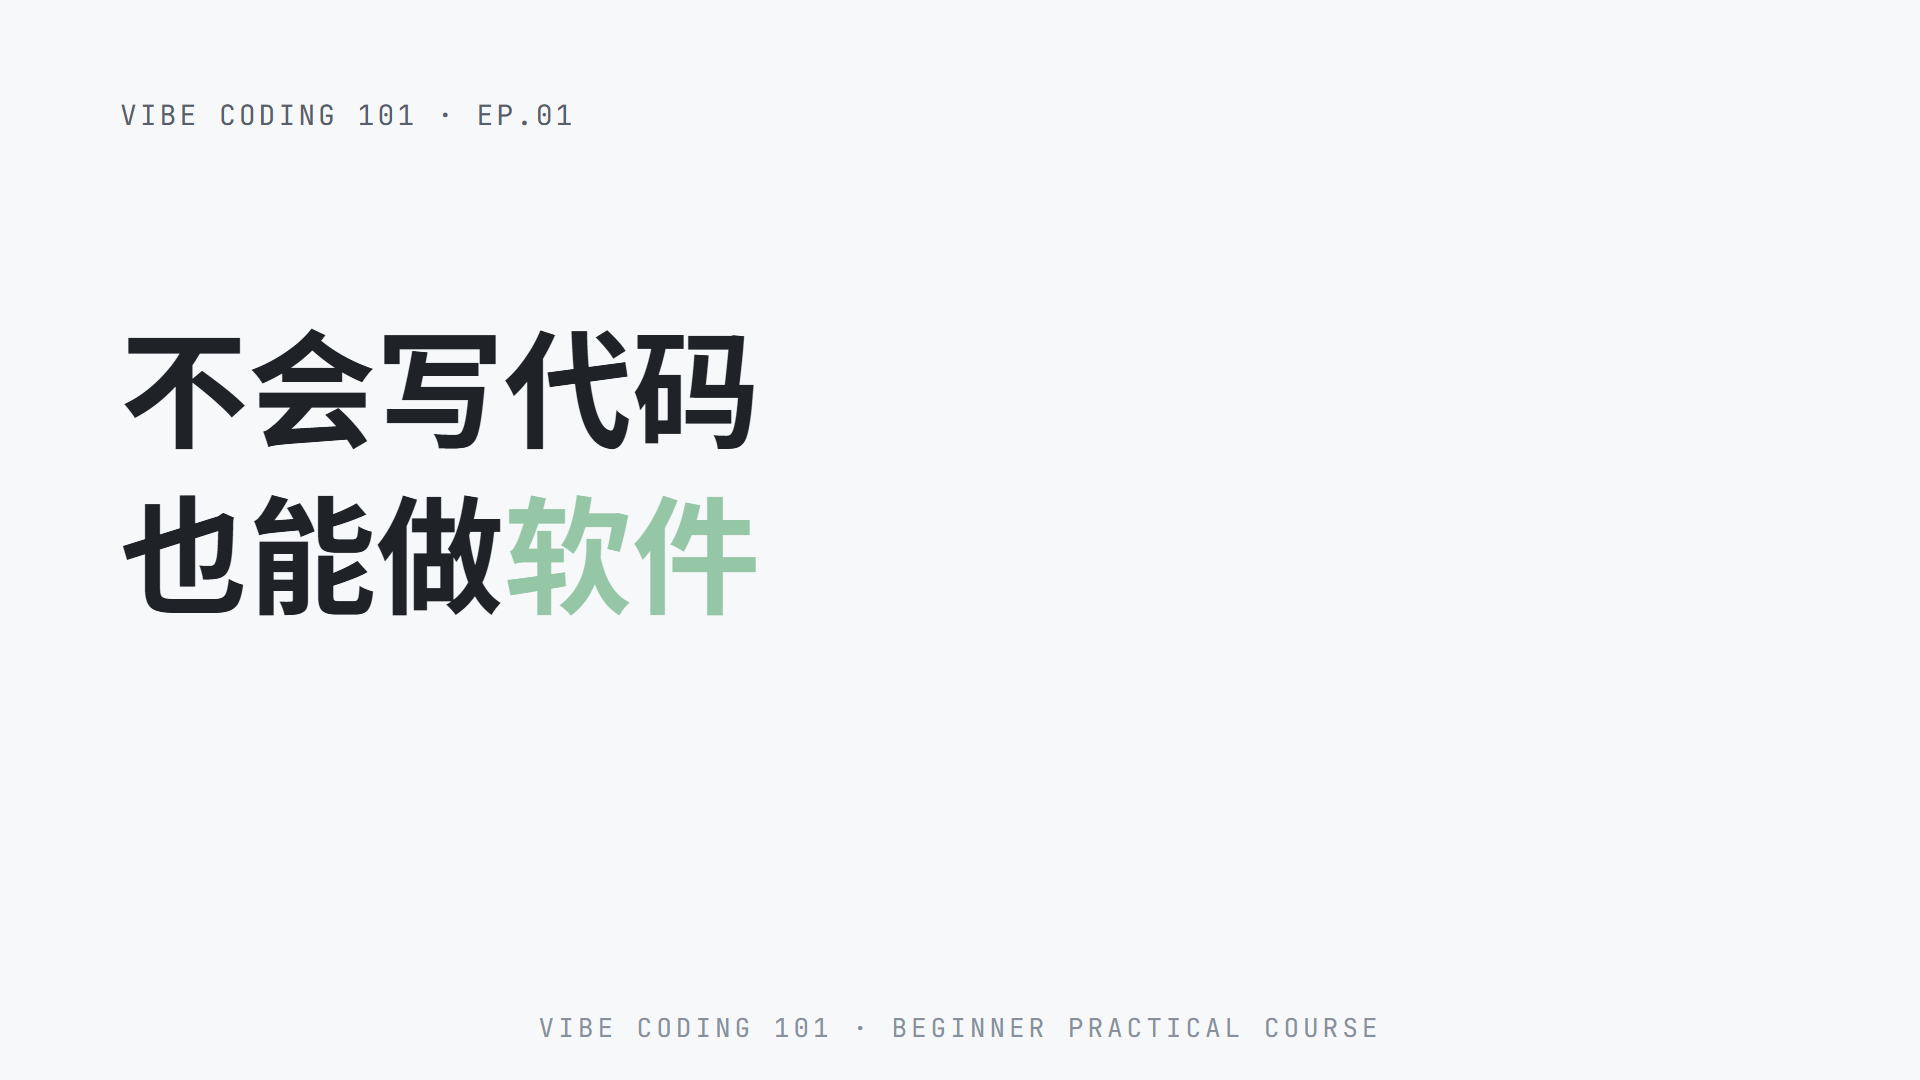
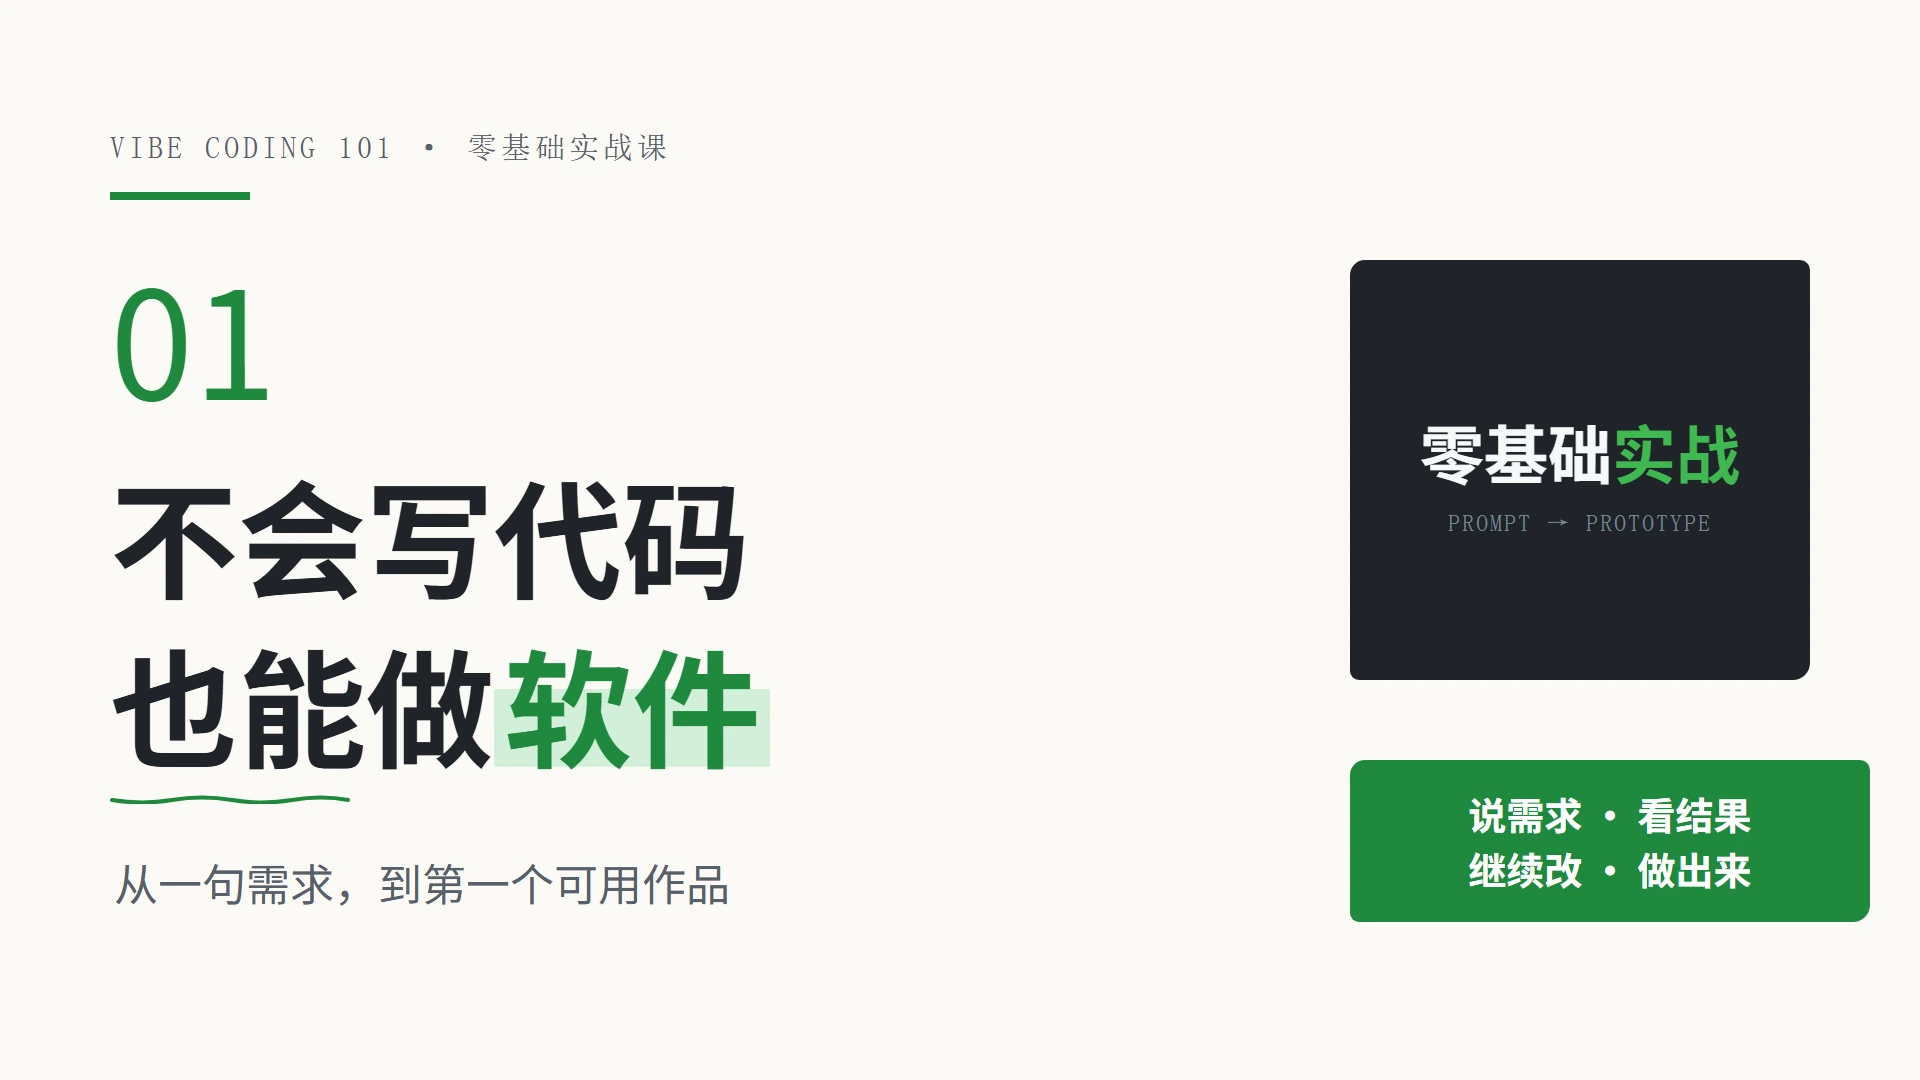
feat(covers): re-snapshot the EP.01 covers from their compositions
deliverables/{landscape,vertical}-cover.webp were captured 2026-10-29, before
cover.html gained the EP numeral, the subtitle, the dark 零基础实战 card and the
green CTA — the shipped stills carried none of them (verified by reading the webp:
no card, no CTA, no squiggle).

Both compositions are <template> fragments that no project index mounts, so
hyperframes snapshot cannot reach them (it errors 'use only one of --at, --range,
or --composition' and captures the root timeline otherwise). Their only animation
is a paused Ken Burns from scale 1, so the static markup is the frame: lift the
template body into a bare page and screenshot. render_ep01_covers.py does that and
writes both stills plus the webp deliverables; round-trip diff 0.67 / 0.72.

Dropped the .hyperframes cache the aborted snapshot attempt left behind — the
validator walks the working tree and fails on any committed generated path.

diff --git a/design/handdraw/render_ep01_covers.py b/design/handdraw/render_ep01_covers.py
@@ -1,0 +1,93 @@
+#!/usr/bin/env python3
+"""Re-snapshot the EP.01 landscape / vertical covers.
+
+`videos/{landscape,vertical}/compositions/cover.html` are HyperFrames template
+fragments that no project index mounts, so `hyperframes snapshot` cannot reach
+them. Their timeline is a paused Ken Burns (scale 1 -> 1.03 at t=0), so the
+static markup *is* the cover frame: lift the <template> body into a plain page
+and screenshot it.
+
+The two shipped webp files lagged the compositions (missing EP numeral,
+subtitle, dark card and CTA), which is why this script exists.
+
+    python design/handdraw/render_ep01_covers.py
+"""
+
+from __future__ import annotations
+
+import os
+import re
+import subprocess
+import tempfile
+from pathlib import Path
+
+from PIL import Image
+
+CHROME = r"C:\Program Files\Google\Chrome\Application\chrome.exe"
+ROOT = Path(__file__).resolve().parents[2]
+STILLS = ROOT / "design" / "handdraw" / "renders"
+
+# (composition, width, height, still name, webp deliverable)
+JOBS = [
+    ("videos/landscape/compositions/cover.html", 1920, 1080, "ep01-landscape-16x9.png",
+     "deliverables/landscape-cover.webp"),
+    ("videos/vertical/compositions/cover.html", 1080, 1920, "ep01-vertical-9x16.png",
+     "deliverables/vertical-cover.webp"),
+]
+
+
+def standalone(src: Path, width: int, height: int, out: Path) -> Path:
+    html = src.read_text(encoding="utf-8")
+    match = re.search(r"<template>(.*?)</template>", html, re.S)
+    if not match:
+        raise SystemExit(f"{src}: no <template> block")
+    body = re.sub(r"<script>.*?</script>", "", match.group(1), flags=re.S)
+    out.write_text(
+        "<!doctype html><html><head><meta charset='utf-8'>"
+        f"<style>html,body{{margin:0;padding:0;width:{width}px;height:{height}px;overflow:hidden}}</style>"
+        f"</head><body>{body}</body></html>",
+        encoding="utf-8",
+    )
+    return out
+
+
+def capture(page: Path, width: int, height: int, png: Path, attempts: int = 3) -> Path:
+    """Screenshot with a throwaway profile: a shared --user-data-dir makes Chrome's
+    singleton lock drop the second capture silently."""
+    for attempt in range(1, attempts + 1):
+        if png.exists():
+            png.unlink()
+        profile = tempfile.mkdtemp(prefix="cover-chrome-")
+        subprocess.run(
+            [
+                CHROME, "--headless=new", "--disable-gpu", "--hide-scrollbars",
+                "--disable-extensions", "--no-first-run", "--no-default-browser-check",
+                "--force-device-scale-factor=1", f"--user-data-dir={profile}",
+                f"--window-size={width},{height}", f"--screenshot={png}",
+                "file:///" + str(page).replace(os.sep, "/"),
+            ],
+            capture_output=True,
+            timeout=90,
+        )
+        if png.exists() and png.stat().st_size > 10_000:
+            return png
+        print(f"  attempt {attempt} produced nothing, retrying")
+    raise SystemExit(f"could not capture {page}")
+
+
+def main() -> None:
+    STILLS.mkdir(parents=True, exist_ok=True)
+    tmp = Path(tempfile.mkdtemp(prefix="ep01-cover-"))
+    for rel, w, h, still, deliverable in JOBS:
+        src = ROOT / rel
+        page = standalone(src, w, h, tmp / (still.replace(".png", ".html")))
+        png = capture(page, w, h, STILLS / still)
+        with Image.open(png) as im:
+            if im.size != (w, h):
+                raise SystemExit(f"{still}: got {im.size}, want {(w, h)}")
+            im.convert("RGB").save(ROOT / deliverable, "WEBP", quality=92, method=6)
+        print(f"{still:26} {w}x{h}  ->  {deliverable}")
+
+
+if __name__ == "__main__":
+    main()

diff --git a/design/handdraw/README.md b/design/handdraw/README.md
@@ -46,7 +46,7 @@ python skills/handdraw-style-prompter/scripts/resolve_reference.py --model gpt-i
 | 资产 | 现状 | 改造稿 |
 | --- | --- | --- |
 | 书封面 `book/assets/cover.svg` / `cover.webp` | 代码海报风 | `covers.md` 第 0 组（未落地） |
-| EP.01 横版封面 `deliverables/landscape-cover.webp` | 手绘排版稿（`videos/landscape/compositions/cover.html`），但渲染停留在 10-29 | 需重出图 |
+| EP.01 横/竖封面 `deliverables/{landscape,vertical}-cover.webp` | ✅ 2026-10-31 按 composition 重出（此前重出停在 10-29，缺 EP 数字、副标题、卡片、CTA） | `render_ep01_covers.py` |
 | EP.02/03/04 封面 `deliverables/ep0X-cover.webp` | ✅ 已换成手绘稿（2026-10-31） | `covers.md` 第 3–5 组 → 实现在 `covers/ep0X.html` |
 | 书籍正文知识图解 | 截图为主，机制段落靠文字推演 | `book-illustrations.md` 首批 6 个点位 |
 
@@ -72,6 +72,14 @@ python design/handdraw/render_covers.py          # 9 张：ep02–04 × 16:9 / 4
 
 渲染用无头 Chrome（每次独立 `--user-data-dir`，Chrome 单例锁会让并发截图静默失败），尺寸钉死：
 16:9 = 1920×1080（B站 + `deliverables/ep0X-cover.webp`），4:3 = 1440×1080，3:4 = 1080×1440（抖音竖封面 / 视频号资料卡）。
+
+EP.01 的横 / 竖封面不走这套 html：它们本来就是 `videos/{landscape,vertical}/compositions/cover.html`，
+但这两个 template 没挂进任何 project index，`hyperframes snapshot` 够不到。它们的时间线只是一段 t=0 缩放到 1 的
+Ken Burns，静态 markup 就是封面本身，于是抽 `<template>` 出来直接截图：
+
+```bash
+python design/handdraw/render_ep01_covers.py     # 2 张：1920×1080 + 1080×1920
+```
 
 **平台侧还没换**：抖音 / B 站 / 视频号线上仍是 2026-10-30 的旧「绿蛇海报」；仓库里已是新手绘稿，要同步必须重新上传封面。
 
